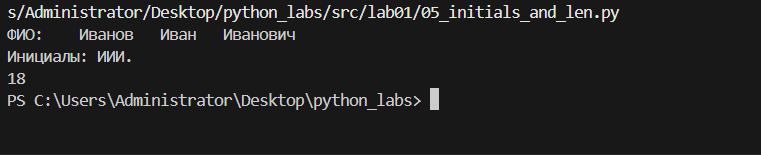
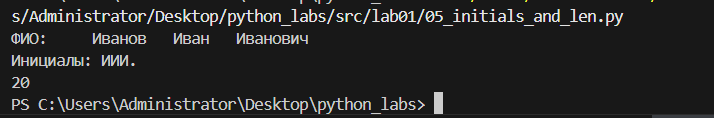
lab01

diff --git a/src/lab01/05_initials_and_len.py b/src/lab01/05_initials_and_len.py
@@ -3,4 +3,4 @@ I = ''
 for i in range(3):
     I += fio[i][0]
 print(f"Инициалы: {I}.")
-print(sum(len(i)+2 for i in fio))
+print(sum(len(i)for i in fio) +2)

diff --git a/Readme.md b/Readme.md
@@ -72,8 +72,9 @@ I = ''
 for i in range(3):
     I += fio[i][0]
 print(f"Инициалы: {I}.")
-print(sum(len(i) for i in fio))
+print(sum(len(i) for i in fio)+2)
 ```
+
 Результат выполнения:
 
 ![Результат выполнения задания 5](images/lab01/05_initials_and_len.png)
